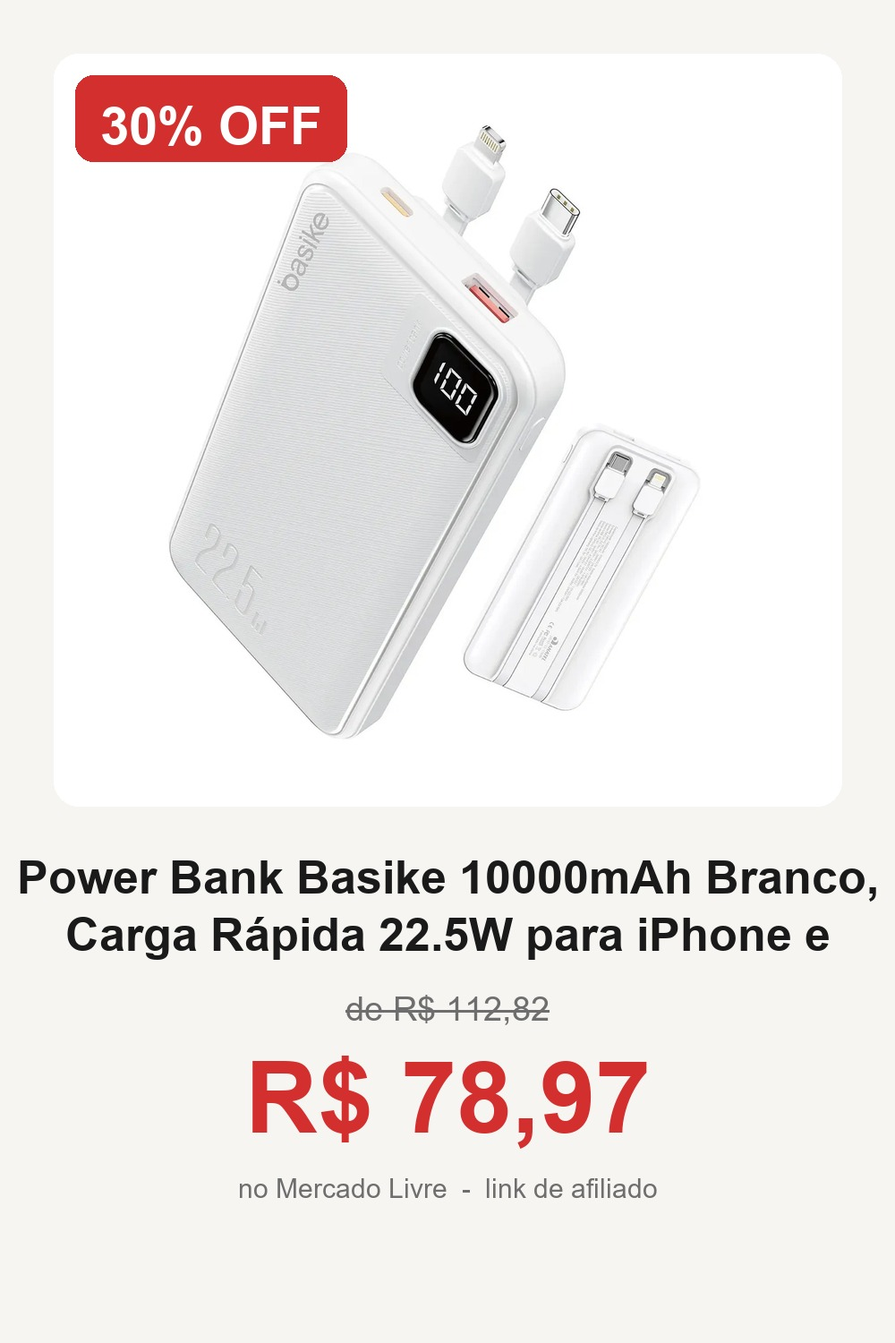
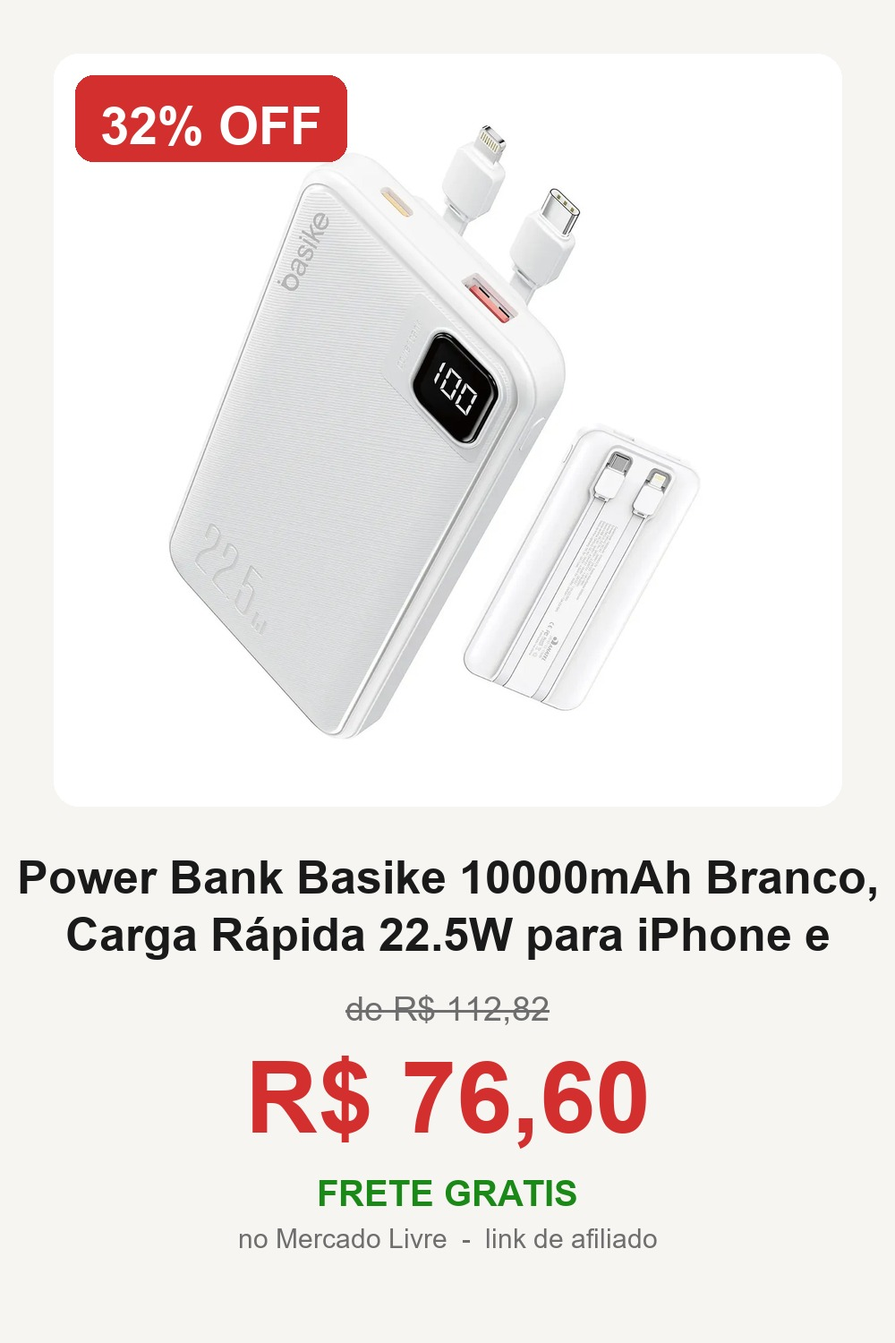
ofertas de 02/09/2026 09:50

Changed region(s): [[0.31, 0.7973, 0.744, 0.9507], [0.124, 0.092, 0.186, 0.1227]]

diff --git a/index.html b/index.html
@@ -52,118 +52,110 @@ footer{text-align:center;color:var(--sub);font-size:13px;padding:32px 20px 56px;
 <p class="aviso">Os links sao de afiliado: voce paga o mesmo preco e eu recebo uma comissao.</p>
 
 <main>
-  <h2>Achados de 01/09/2026</h2>
+  <h2>Achados de 02/09/2026</h2>
   <div class="grade">
-    <a class="item" href="https://www.mercadolivre.com.br/social/eulleriago?matt_word=lootlabpinterest&amp;matt_tool=51242712&amp;forceInApp=true&amp;ref=BMqnOBNMA0SERje5fzGN81BvwZ9m5HuJili7jtFfkcT97LvyqlRd7RjxTP2Gh5XAKsbw%2FGDSkmY%2F%2FaJNbv2mPzH5X4gBh4%2FReSwBP3fnoVQeTwZyQIlms9Y4cNS0vwF%2BMbb5yEgqYj7TjPZfX%2B3FiR5CZiqOOao2AwUclkfVs2vnMe%2B3WOzs28G%2BylTX%2FFPcsSdxhQ%3D%3D" target="_blank" rel="nofollow sponsored noopener">
-      <img src="img/MLB6292634130.jpg" alt="Kit Cobre Leito Colcha Casal 3 Peças Boutis Lisas Dupla Face Porta Travesseiro A" loading="lazy">
+    <a class="item" href="https://www.mercadolivre.com.br/social/eulleriago?matt_word=lootlabpinterest&amp;matt_tool=51242712&amp;forceInApp=true&amp;ref=BKDtHsgtlVsVm5YjahXwwNdTLCNdoHk%2FYGz0mVS77veQ%2BIxzEgAKVHtendtmFe3o4a1ZdVBh58wDEw9vP3hiYuWu%2Fr8UUgN911I742DUuN4Sql%2FzBAq%2Fz5eH7yy29rQKyXG4bOF%2FvHxTA0Jatkl8jEzxPEL74lotQvk%2F9ccjX5x3WuQ2luuBshlINO6b%2Fo92iETcJw%3D%3D" target="_blank" rel="nofollow sponsored noopener">
+      <img src="img/MLB7087431076.jpg" alt="Controle joystick sem fio Sony PlayStation Dualshock 4 Wireless controller alpin" loading="lazy">
+      <div class="txt">
+        <span class="tag">75% OFF</span>
+        <h3>Controle joystick sem fio Sony PlayStation Dualshock 4 Wireless contro</h3>
+        <div><span class="preco">R$ 97,47</span><span class="de">R$ 389,90</span></div>
+      </div>
+    </a>
+    <a class="item" href="https://www.mercadolivre.com.br/social/eulleriago?matt_word=lootlabpinterest&amp;matt_tool=51242712&amp;forceInApp=true&amp;ref=BACSKZQXn2hOHjmvYhBrX37If1z%2B8xQTkpBoqB%2FoN6QXRhgisPsqubkbzEpL54iZ4ZYyKjXKLld7omt%2F6Qf83wjeE2x4PYM5mzBTHmCDUAbQA%2FIjGf%2Bru3rdwmSTqAdkjT0oiIzl4DX94kz3G6d3wEA3Zn2PChVCllH6%2BemLz8m6xnXMdiv5aeDJO9kL%2FhJ%2BuX1xEA%3D%3D" target="_blank" rel="nofollow sponsored noopener">
+      <img src="img/MLB6288675738.jpg" alt="Kit Cobre Leito Colcha Casal 3 Peças Boutis Lisas Dupla Face Porta Travesseiro A" loading="lazy">
       <div class="txt">
         <span class="tag">59% OFF</span>
         <h3>Kit Cobre Leito Colcha Casal 3 Peças Boutis Lisas Dupla Face Porta Tra</h3>
         <div><span class="preco">R$ 76,62</span><span class="de">R$ 187,90</span></div>
       </div>
     </a>
-    <a class="item" href="https://www.mercadolivre.com.br/social/eulleriago?matt_word=lootlabpinterest&amp;matt_tool=51242712&amp;forceInApp=true&amp;ref=BC15n9tQVMiHbe9EyxT%2BnjUNzMRlmZoKeVUO9v%2BzMpYc%2BX9R0kRI1Vk6OCRZdZNBg0Iv0%2Fez6INyaEtamJPwoLsDknSbOC0fDlyOY2KPpVsH%2Bn9dFqJ7%2FlesQZEqZIL80PbQ1QsCT3mEt7vbapynS01zGrlhIymNdiSkqDVOCJoKciGztCHnRS1MMTzEjAtd6%2F5%2B3A%3D%3D" target="_blank" rel="nofollow sponsored noopener">
-      <img src="img/MLB5410852112.jpg" alt="Fone De Ouvido Soundcore by Anker P20i Graves Poderosos e Impactantes Bluetooth " loading="lazy">
+    <a class="item" href="https://www.mercadolivre.com.br/social/eulleriago?matt_word=lootlabpinterest&amp;matt_tool=51242712&amp;forceInApp=true&amp;ref=BPnYxu7sb2Zx2pVYL78tdSvM%2Bzc4cNU1Y6%2FDuqVm9zLvKtoGQF1hnCUi%2F%2FMG%2BaxC3eKgsbIBIRt%2Bd%2BgQP691968nG4vjZNj%2BigH4qiY%2Bw9hGXtMZ7V0cZDlMDED%2BHmhNB7OP6CodIVLVra6YORFqYU0uGmMNipZvdh8IZ%2B81m5PQbXIp47BSi%2FQcoRbBhiGZvR5wgA%3D%3D" target="_blank" rel="nofollow sponsored noopener">
+      <img src="img/MLB5111786668.jpg" alt="Suporte De Mesa Para Tv/monitor De 17 Até 30 Preto Nb F80" loading="lazy">
       <div class="txt">
-        <span class="tag">48% OFF</span>
-        <h3>Fone De Ouvido Soundcore by Anker P20i Graves Poderosos e Impactantes </h3>
-        <div><span class="preco">R$ 155,97</span><span class="de">R$ 299,00</span></div>
+        <span class="tag">56% OFF</span>
+        <h3>Suporte De Mesa Para Tv/monitor De 17 Até 30 Preto Nb F80</h3>
+        <div><span class="preco">R$ 111,05</span><span class="de">R$ 250,90</span></div>
       </div>
     </a>
-    <a class="item" href="https://www.mercadolivre.com.br/social/eulleriago?matt_word=lootlabpinterest&amp;matt_tool=51242712&amp;forceInApp=true&amp;ref=BDBIJLtTlieuoboZDqFX9hDcmdZEEGZkc51Pg9XwdyC6boHxHciGUUlyuXE2YCtGV2vtmHc8r8epJo7Mf4tGBb%2BUeoqiKLI7NKWusZ48NIrxrdKP5BcjOv9gbRer5yUPA6QUIX34o8yddpSR7HKECuDGRL8FCrW4ACvgzdLbVj0w%2BEokPFXjt7O21ex9rLZ5Sn%2FqWw%3D%3D" target="_blank" rel="nofollow sponsored noopener">
-      <img src="img/MLB2184338242.jpg" alt="Secador de cabelo TaiffClássica Style azul" loading="lazy">
+    <a class="item" href="https://www.mercadolivre.com.br/social/eulleriago?matt_word=lootlabpinterest&amp;matt_tool=51242712&amp;forceInApp=true&amp;ref=BEArtbKuZL3J6hjBmAwVAuZJEBqH7wWWtzSGQtGY6%2F2YeN%2FJCrIqGBb8HUMU%2B1bETIHdHlptwRLpbTp4pFU9GFtnRYLhfGc08XcJmAXNOmmTIluM68G3kMfmW2KfB5Z3qYnQytyuAbyQmzkzxL4TrloLggXOBiWmb%2BK3eUy1LFT932n2HllaLFLE2JQPq9DmKGnnWQ%3D%3D" target="_blank" rel="nofollow sponsored noopener">
+      <img src="img/MLB4207618703.jpg" alt="Filamento 3d Petg 1,75mm 1kg Cor Laranja Masterprint Laranja" loading="lazy">
       <div class="txt">
-        <span class="tag">44% OFF</span>
-        <h3>Secador de cabelo TaiffClássica Style azul</h3>
-        <div><span class="preco">R$ 222,05</span><span class="de">R$ 394,71</span></div>
+        <span class="tag">49% OFF</span>
+        <h3>Filamento 3d Petg 1,75mm 1kg Cor Laranja Masterprint Laranja</h3>
+        <div><span class="preco">R$ 75,50</span><span class="de">R$ 147,01</span></div>
       </div>
     </a>
-    <a class="item" href="https://www.mercadolivre.com.br/social/eulleriago?matt_word=lootlabpinterest&amp;matt_tool=51242712&amp;forceInApp=true&amp;ref=BGFjsx%2BL2z37n81MMY8IdlVOiFXQHfEPmKG8FRQAgYp8NmSMEkeMiuLawrswRys9jihF1ZhdlKhlxPifU7LuSHoG6N7qOwhzX%2BJ3YkyypTFJbPa%2FHAzGAHVkCCWJ99%2Fr4bOXdLPzeNuq1tbOdLX3kTSHX5amBA4IfEUX6vx25zxRyQm3pHCiP9Qzf1zwGJp74w5Uqw%3D%3D" target="_blank" rel="nofollow sponsored noopener">
-      <img src="img/MLB7535818070.jpg" alt="Mala de Bordo Rígida ABS Preto Sweet Studio com Rodas Duplas 360° para Viagem" loading="lazy">
-      <div class="txt">
-        <span class="tag">43% OFF</span>
-        <h3>Mala de Bordo Rígida ABS Preto Sweet Studio com Rodas Duplas 360° para</h3>
-        <div><span class="preco">R$ 198,44</span><span class="de">R$ 347,99</span></div>
-      </div>
-    </a>
-    <a class="item" href="https://www.mercadolivre.com.br/social/eulleriago?matt_word=lootlabpinterest&amp;matt_tool=51242712&amp;forceInApp=true&amp;ref=BD0C%2BEmtIaJlKbM4ySmy7wypi3R801ORQW2R2%2BM6zikcUB5YIOH%2BXXdd2s%2BVX642H%2FRmm%2FAxkeuasA%2F2TB3pSE9571Y9ekjChZxLCtWbjc8VrVOLbqHh%2FP61gDFQ%2FtcPEWSvR6xPgKyMjZMGnTblr7GKIzoEAZJuxWBoufaHDI%2F9d%2FPQet7kDsCYY6RTkLovo%2BXHXQ%3D%3D" target="_blank" rel="nofollow sponsored noopener">
-      <img src="img/MLB7326391242.jpg" alt="Controle Sony Dualsense Sem Fio White Ps5" loading="lazy">
-      <div class="txt">
-        <span class="tag">42% OFF</span>
-        <h3>Controle Sony Dualsense Sem Fio White Ps5</h3>
-        <div><span class="preco">R$ 406,00</span><span class="de">R$ 699,00</span></div>
-      </div>
-    </a>
-    <a class="item" href="https://www.mercadolivre.com.br/social/eulleriago?matt_word=lootlabpinterest&amp;matt_tool=51242712&amp;forceInApp=true&amp;ref=BDZ07GnQHmJrGn3HGqT3F%2BJTVNZmO2%2FotoSb0mBnNjhme21oKTA4V8GfMVRgkeD%2Fn2QKyYYIRYS3GpYwBu7vl%2FxCkeh54CtFydt0t58WGcyzQ0NA5SDbGckmptQ6wJzRD5QKbCn12qy%2FPvWcUbahNU0OO7DR01uNr0dMuxTsBf0iwT9XQ8liqlQyGDJ5i6wtu6jIZg%3D%3D" target="_blank" rel="nofollow sponsored noopener">
-      <img src="img/MLB3686609545.jpg" alt="Jogo Talheres Faqueiro Búzios Aço Inox 24 Peças Tramontina" loading="lazy">
-      <div class="txt">
-        <span class="tag">42% OFF</span>
-        <h3>Jogo Talheres Faqueiro Búzios Aço Inox 24 Peças Tramontina</h3>
-        <div><span class="preco">R$ 62,81</span><span class="de">R$ 108,99</span></div>
-      </div>
-    </a>
-    <a class="item" href="https://www.mercadolivre.com.br/social/eulleriago?matt_word=lootlabpinterest&amp;matt_tool=51242712&amp;forceInApp=true&amp;ref=BHKz%2BEJuxLGT%2BZbAXjje%2F7VO5MvFpwL9XcbIzQbvBnQ%2BaCn6NR%2Fj08w3n9wXwZp3LyzcMj0O8KLEEXHCy2C4bJ7sRbmD6%2FXx9YxCgejPzbpa9mxZHY5%2BUvOTfHi1aSx3Ww1EEVzebYV9yVq7TV4aKpYG%2FO4GZdRh4vm%2BCH6w%2BjslOjCLfw9UzqHhgtWFeNoifG9puw%3D%3D" target="_blank" rel="nofollow sponsored noopener">
-      <img src="img/MLB6538432578.jpg" alt="Fone Ouvido Bluetooth Compatível Com Iphone X Xr 11 12 13 14 15 16 17 Xs Pro Max" loading="lazy">
+    <a class="item" href="https://www.mercadolivre.com.br/social/eulleriago?matt_word=lootlabpinterest&amp;matt_tool=51242712&amp;forceInApp=true&amp;ref=BNW8%2FKuYXHbimDSS5kc8%2BdMj%2BrgvGOWlL9eIMPlBJaQQBQD3mZG%2BMXSLwZEu%2FYqXxZXSfuYeGF3hb3R64yzUOVwW%2B131x219ZAJEoVYxwKVHqDM0lasaTsvB4hNO2I7v6N%2FlstHzuqBcPByw6tv9xabFn57PhMLU%2Fee4TZfIde6RoTkMcQO3GJFDBFU1Swv4JLEsQQ%3D%3D" target="_blank" rel="nofollow sponsored noopener">
+      <img src="img/MLB6759050896.jpg" alt="Controle Gamesir T4 Nova Lite sem Fio para Pc Switch Android Ios Steam Celular H" loading="lazy">
       <div class="txt">
         <span class="tag">40% OFF</span>
-        <h3>Fone Ouvido Bluetooth Compatível Com Iphone X Xr 11 12 13 14 15 16 17 </h3>
-        <div><span class="preco">R$ 47,34</span><span class="de">R$ 78,90</span></div>
+        <h3>Controle Gamesir T4 Nova Lite sem Fio para Pc Switch Android Ios Steam</h3>
+        <div><span class="preco">R$ 179,99</span><span class="de">R$ 299,00</span></div>
       </div>
     </a>
-    <a class="item" href="https://www.mercadolivre.com.br/social/eulleriago?matt_word=lootlabpinterest&amp;matt_tool=51242712&amp;forceInApp=true&amp;ref=BNkw0fNCKGFm846VBgq%2BR1MToK39TOKaq3htvEag7%2FBh8w8gWpmsJ%2FcgQuWDee7W7GBa9Rztb8zFt11MCmYVsTica1zzSvJ6XlID1lERWAXEiapC6Qtz3StLfOQGuNLehjayfyCZDqDhRw5813ku789z9eML9DwWvO9EnIDwV8a6HJW7VSdMq9WrnJeUdxBQIrmy2g%3D%3D" target="_blank" rel="nofollow sponsored noopener">
-      <img src="img/MLB2208458035.jpg" alt="Espremedor Turbo Citrus, Mondial, 25W - E-01" loading="lazy">
+    <a class="item" href="https://www.mercadolivre.com.br/social/eulleriago?matt_word=lootlabpinterest&amp;matt_tool=51242712&amp;forceInApp=true&amp;ref=BOnsPCrYYUsEZuyen%2F6LwzgMtruuQczhOAc2DAoGrRHNTwQBmjpcmNxXsudOhXyUNZE9Qd7DP8%2BX5C9CLkD7iSiL4RxNxjdpJp%2BKhWklKZwclNfEb4LkR3JgQnlOuhAyOqLylD4GmFtlbm%2FMYlV9%2F8TPNEI5Aw9omkvcBLR6G8f7aUph6hpQCICYOM2Miv1vRWzxkA%3D%3D" target="_blank" rel="nofollow sponsored noopener">
+      <img src="img/MLB4950691791.jpg" alt="Hollyland Lark M2 Microfone Lapela Sem Fio Compatível Com Android Mini Combo" loading="lazy">
+      <div class="txt">
+        <span class="tag">39% OFF</span>
+        <h3>Hollyland Lark M2 Microfone Lapela Sem Fio Compatível Com Android Mini</h3>
+        <div><span class="preco">R$ 762,50</span><span class="de">R$ 1.250,00</span></div>
+      </div>
+    </a>
+    <a class="item" href="https://www.mercadolivre.com.br/social/eulleriago?matt_word=lootlabpinterest&amp;matt_tool=51242712&amp;forceInApp=true&amp;ref=BIz9M9ucITsBFQTuauU%2FKlzCNEACvzKwzgTRpJz5jRseD5FJE%2FGFR2gOfFjDFqh30At%2BIYnAxagqERhCojH419QUxgXznKKvDJQAIDuwzup9swUeKRYZTEyYqBNZbxJBryKlmw2PPlEyK4cf8n6wVT41mKm%2BEkJwf0YfKi9qf%2FbCOA7umQFab%2FX6PX9vfv5YZ2JQyA%3D%3D" target="_blank" rel="nofollow sponsored noopener">
+      <img src="img/MLB7331440278.jpg" alt="Protetor De Colchão Impermeável Solteiro Matelado Resistente A Líquidos Antiácar" loading="lazy">
       <div class="txt">
         <span class="tag">38% OFF</span>
-        <h3>Espremedor Turbo Citrus, Mondial, 25W - E-01</h3>
-        <div><span class="preco">R$ 61,51</span><span class="de">R$ 99,90</span></div>
+        <h3>Protetor De Colchão Impermeável Solteiro Matelado Resistente A Líquido</h3>
+        <div><span class="preco">R$ 43,55</span><span class="de">R$ 69,98</span></div>
       </div>
     </a>
-    <a class="item" href="https://www.mercadolivre.com.br/social/eulleriago?matt_word=lootlabpinterest&amp;matt_tool=51242712&amp;forceInApp=true&amp;ref=BGJlbP04J%2FXcO9ZNOBJPMEXsFKhmVLvZPB5V5HMCvyPoHj2qLOeHZE%2B7aOaxOughggVHKIlZ5JaWkMibT2hXD626a298FBhTXQCgmbdAKhdutVGpenGP2FVLFOajNHHj3rwSu5hpVWWCTWG9Ht9iR5%2F2RvqVc7E6fFDEGA6L0mEOf77HQdHH7X8naoGDbHJzOm3wGw%3D%3D" target="_blank" rel="nofollow sponsored noopener">
-      <img src="img/MLB6732515480.jpg" alt="Kit 25 Sacos Para Armazenar e Congelar Leite Materno Buba 200ml" loading="lazy">
-      <div class="txt">
-        <span class="tag">38% OFF</span>
-        <h3>Kit 25 Sacos Para Armazenar e Congelar Leite Materno Buba 200ml</h3>
-        <div><span class="preco">R$ 31,18</span><span class="de">R$ 49,90</span></div>
-      </div>
-    </a>
-    <a class="item" href="https://www.mercadolivre.com.br/social/eulleriago?matt_word=lootlabpinterest&amp;matt_tool=51242712&amp;forceInApp=true&amp;ref=BCD3b64hHXAD63vZn8uPBx4ygEKKRtHn7rgdecAhOvO9WOsTsP3Pa0AztC2yBDWKG5L2Q%2BqXIp%2BuAvfDWgGN%2FXU6X1wLzi3aNsi%2FTUgTMfzvzymZQgnaOd0E6cOLKV6IfJR7%2FABC8VwLx4UCVp8PmqufySYXvxcb9%2FihgW4%2BO%2BvSHpOfM%2Fxhz3kMRyLLz6037HA8UQ%3D%3D" target="_blank" rel="nofollow sponsored noopener">
-      <img src="img/MLB6075542836.jpg" alt="Controle Gamesir G7 Se Com Fio Para Xbox One Series S X Pc Hall Effect Botões Me" loading="lazy">
-      <div class="txt">
-        <span class="tag">37% OFF</span>
-        <h3>Controle Gamesir G7 Se Com Fio Para Xbox One Series S X Pc Hall Effect</h3>
-        <div><span class="preco">R$ 228,51</span><span class="de">R$ 364,65</span></div>
-      </div>
-    </a>
-    <a class="item" href="https://www.mercadolivre.com.br/social/eulleriago?matt_word=lootlabpinterest&amp;matt_tool=51242712&amp;forceInApp=true&amp;ref=BBoBNtQrvVyC%2BGxJnqjmd9BNF5TQZKbNhEPUuEjQnv7tTG%2Ft55KCmb%2BWByR16666e1TxOnawXoIT7%2BlenMtP5CwWM3bLGMNfWuphBkHLS3cqKEGkWvh%2FOYxnMWENm3IFCE8UBcprHsUiOdfl0SiBtU1hF7krFI%2Bvil%2FfKy0OyJXZfZgvxhBQMKS9qMaxbNx5ikC4bg%3D%3D" target="_blank" rel="nofollow sponsored noopener">
-      <img src="img/MLB6187617910.jpg" alt="“Chinelo Havaianas Top Unissex Adulto”." loading="lazy">
-      <div class="txt">
-        <span class="tag">36% OFF</span>
-        <h3>“Chinelo Havaianas Top Unissex Adulto”.</h3>
-        <div><span class="preco">R$ 31,99</span><span class="de">R$ 49,98</span></div>
-      </div>
-    </a>
-    <a class="item" href="https://www.mercadolivre.com.br/social/eulleriago?matt_word=lootlabpinterest&amp;matt_tool=51242712&amp;forceInApp=true&amp;ref=BH3rIKIKtK8%2BeHTjRpuNd0duD7akj6URM6pTG3IkRIaTVQXT2iGJX%2FjbIw8wbDKV0JuH101NzQq%2BvILd05OEyjZmgwKJSMX%2Bjf%2FbBCJY%2BT%2BjiGui6vDrZ5dKxZ%2F8tpQpiPEuEGEw%2BN%2B5pspjaRg2emnE1sH%2BpJqNAfCK6GWLksqaORBfULHdmYCI6YMfJu4AaVb0iQ%3D%3D" target="_blank" rel="nofollow sponsored noopener">
-      <img src="img/MLB4367472233.jpg" alt="Smart Tv 32 Philco P32vik Roku Led Dolby Audio Hdr Wi-fi 110/220v" loading="lazy">
+    <a class="item" href="https://www.mercadolivre.com.br/social/eulleriago?matt_word=lootlabpinterest&amp;matt_tool=51242712&amp;forceInApp=true&amp;ref=BMhkr1wfFbtGWDPWVlpXeEUcfUqQkvVS0dKKTSt3ts7UKIEZMJtYpj74ml9xc47WdmAKiQMl776Cwbo3PovCXNgWJwMboQ0b%2Fkwv24oD5b%2BUZ3odAuoRmXLWfV9aQhje1EnGgk%2BGOUBDgMHpgLn%2B7c2sexLtoKKRnk3g%2BAnWSc9TVVrlTwthSNZPK5dS1UYTLpmqqQ%3D%3D" target="_blank" rel="nofollow sponsored noopener">
+      <img src="img/MLB3811504878.jpg" alt="Papel Higiênico Neve Supreme Folha Tripla Leve 32 Pague 28" loading="lazy">
       <div class="txt">
         <span class="tag">35% OFF</span>
-        <h3>Smart Tv 32 Philco P32vik Roku Led Dolby Audio Hdr Wi-fi 110/220v</h3>
-        <div><span class="preco">R$ 977,17</span><span class="de">R$ 1.499,00</span></div>
+        <h3>Papel Higiênico Neve Supreme Folha Tripla Leve 32 Pague 28</h3>
+        <div><span class="preco">R$ 60,12</span><span class="de">R$ 92,30</span></div>
       </div>
     </a>
-    <a class="item" href="https://www.mercadolivre.com.br/social/eulleriago?matt_word=lootlabpinterest&amp;matt_tool=51242712&amp;forceInApp=true&amp;ref=BHgpS6QNiWHTg5%2FMglMEw2xf5cEZMP2XNQUEC%2BkkTvJq1Hp3GXyBAPufLQMute1%2BEJZwc1AUe7%2FjZMvHmU1UOvcBvt0mu7OZbZKMalynCIVaa%2BxBfkojcgCrcIiaMtECPgV0BvfVXriE0UFiN8M2wlFjDakuyENmCuAhailYQYzVteUjX8RsMqBKvmFvgpj1w4eFRA%3D%3D" target="_blank" rel="nofollow sponsored noopener">
-      <img src="img/MLB6848617440.jpg" alt="Bicicleta De Equilíbrio 4 Rodas Buba Retro Sem Pedal Cinza" loading="lazy">
+    <a class="item" href="https://www.mercadolivre.com.br/social/eulleriago?matt_word=lootlabpinterest&amp;matt_tool=51242712&amp;forceInApp=true&amp;ref=BB9idWetZSpgyhDmMG5HUZIB8MISOkLnq720r%2BVNwJhTDqr7Iwu4E9RY0bnP5ouhLys1o5HnuMMTVxoTLa8tM2pfFCq6D8uObkt0kAyiV321zAjrJ%2BCVHMY%2FKbGeT0A67p6PaKZeI1JRk8OZyEdrF9JpsdPF12VyEy6Nv5qQAnUB42IsQ97HoxLOdL7SJJ%2Fdu85H3Q%3D%3D" target="_blank" rel="nofollow sponsored noopener">
+      <img src="img/MLB2089615228.jpg" alt="Omo lava roupas líquido profissional Perfect White 7L" loading="lazy">
       <div class="txt">
         <span class="tag">34% OFF</span>
-        <h3>Bicicleta De Equilíbrio 4 Rodas Buba Retro Sem Pedal Cinza</h3>
-        <div><span class="preco">R$ 214,57</span><span class="de">R$ 323,90</span></div>
+        <h3>Omo lava roupas líquido profissional Perfect White 7L</h3>
+        <div><span class="preco">R$ 85,99</span><span class="de">R$ 129,79</span></div>
       </div>
     </a>
-    <a class="item" href="https://www.mercadolivre.com.br/social/eulleriago?matt_word=lootlabpinterest&amp;matt_tool=51242712&amp;forceInApp=true&amp;ref=BHHfKj1OHfVcw0uv7ClnjdF5F6fb%2FQqVC20bsLk%2BOJeGLN%2FHGKBKL68PQSuWSDYedor4fk7xAmZkwI2EE9%2BxzrAD%2B2cSPDjHXpdlh%2BSbpNH%2Ft57Ht0GGN4ywhvG2eTbn2FJYQqBnkvfwiYpIqRvI6PBahwzCIzIrigixXlU2isRtOshz6oG3tEByPQNBqv0d%2FJ6GoA%3D%3D" target="_blank" rel="nofollow sponsored noopener">
-      <img src="img/MLB4220936691.jpg" alt="Chinelo Feminino Slim Havaianas Liso" loading="lazy">
+    <a class="item" href="https://www.mercadolivre.com.br/social/eulleriago?matt_word=lootlabpinterest&amp;matt_tool=51242712&amp;forceInApp=true&amp;ref=BJfczFNq4DR8P7n%2BZ%2FSaMvLdxKRZ4kvVdmlg72q0N2RHG4p6uf7TTSGy4kvPuRMtqHzqHCO0S63JSpPhnq0xNr4mZqGE5qqxAGEbEg3Rzmz3%2BLJz%2BUW1Eh3o5N4vEtpcqpZk%2FM%2Bs0pe5x%2FOrlLCDQ1zTfkgHfs1almOgPeFM7w8geOWiE2FU2vbWFc01hyZzuZRGJQ%3D%3D" target="_blank" rel="nofollow sponsored noopener">
+      <img src="img/MLB4755857128.jpg" alt="Shampoo Anticaspa Cabelos Normais a Oleosos, Dercos DS Vichy, 300g" loading="lazy">
       <div class="txt">
-        <span class="tag">34% OFF</span>
-        <h3>Chinelo Feminino Slim Havaianas Liso</h3>
-        <div><span class="preco">R$ 52,26</span><span class="de">R$ 78,90</span></div>
+        <span class="tag">33% OFF</span>
+        <h3>Shampoo Anticaspa Cabelos Normais a Oleosos, Dercos DS Vichy, 300g</h3>
+        <div><span class="preco">R$ 95,99</span><span class="de">R$ 143,90</span></div>
+      </div>
+    </a>
+    <a class="item" href="https://www.mercadolivre.com.br/social/eulleriago?matt_word=lootlabpinterest&amp;matt_tool=51242712&amp;forceInApp=true&amp;ref=BOvrgU7wtZ0UYr5Q2Wu4Vv9gwEyCaIjRiGVlvToPirQODj2vbfKjBDzR%2FdZ%2FvfhUMNg2uqgEhGdUr03FM%2BxZ92zPlm2ZioEw6Q7vzqMqtr1R2j83%2B8u%2BffidEKSbNPXsxwnbuyZi08%2FNulWbg6MECz%2B4L%2BEYtFz%2BdyYgpMLchRJNB6ZG3bR%2B7NLSM98C20W%2FcwwxfA%3D%3D" target="_blank" rel="nofollow sponsored noopener">
+      <img src="img/MLB3269837602.jpg" alt="Loção Hidratante Corporal Sem Perfume, com Ceramidas Essenciais e Ácido Hialurôn" loading="lazy">
+      <div class="txt">
+        <span class="tag">33% OFF</span>
+        <h3>Loção Hidratante Corporal Sem Perfume, com Ceramidas Essenciais e Ácid</h3>
+        <div><span class="preco">R$ 94,90</span><span class="de">R$ 141,90</span></div>
+      </div>
+    </a>
+    <a class="item" href="https://www.mercadolivre.com.br/social/eulleriago?matt_word=lootlabpinterest&amp;matt_tool=51242712&amp;forceInApp=true&amp;ref=BAcswQyoVJDrpeHc0WUbgVSRikJDqVZcm8QI%2FpLna%2FJBAf0TQK%2B3pxkHPvtsRBWLlYWvMTGnARA7q7bkk%2FPSuWd6IFPu1wce88I0trqamn9nUra0vd3ddHaSLZ6h3wASc60saucDLglIWUGRLah%2B2B%2Fv9%2BydlF4SjQ41mem%2BdyOhywCvUWIjI4q5xaVCxy3q3FvlXQ%3D%3D" target="_blank" rel="nofollow sponsored noopener">
+      <img src="img/MLB2779401126.jpg" alt="Cetaphil Creme Hidratante Corporal para Pele Seca e Sensível 453g - Hidratação p" loading="lazy">
+      <div class="txt">
+        <span class="tag">33% OFF</span>
+        <h3>Cetaphil Creme Hidratante Corporal para Pele Seca e Sensível 453g - Hi</h3>
+        <div><span class="preco">R$ 89,91</span><span class="de">R$ 134,90</span></div>
+      </div>
+    </a>
+    <a class="item" href="https://www.mercadolivre.com.br/social/eulleriago?matt_word=lootlabpinterest&amp;matt_tool=51242712&amp;forceInApp=true&amp;ref=BFXKUM%2FNIHtwe31tTgt3JLvJjY0TRcYLtsR7q%2FP0TWDItzsFAj%2Bp2rFi1y%2BXF%2BuQAgnelGVx5tyhiHJO6HT5lAPiDP%2FZfLvtHVLs1VA2f%2B%2FL0K725wj5Rm9KNvQrGmNcD3ZlbDLkj1WYeuvbOe3njQmX7exkZpzztt3kUBOaMXXC%2FUfnez8jyx69uUi2YQPEj%2F%2Bjag%3D%3D" target="_blank" rel="nofollow sponsored noopener">
+      <img src="img/MLB4555612520.jpg" alt="Huggies Fralda Pants Roupinha Proteção Acolchoada XXG - 58 Un" loading="lazy">
+      <div class="txt">
+        <span class="tag">33% OFF</span>
+        <h3>Huggies Fralda Pants Roupinha Proteção Acolchoada XXG - 58 Un</h3>
+        <div><span class="preco">R$ 76,80</span><span class="de">R$ 114,33</span></div>
       </div>
     </a>
     <a class="item" href="https://www.mercadolivre.com.br/social/eulleriago?matt_word=lootlabpinterest&amp;matt_tool=51242712&amp;forceInApp=true&amp;ref=BHDFzeaRNRBbH4hZY5QYBFpIEX2Xm%2FyTdaFib9P0REdgZT6IimknnFJaeCiSjWQWRbobEBYRf1XqVOO9V4DTvSo8CBJdKaJwhqIlYNDCT4RkaCdYG63eYsrz%2FyHcayBqI0G%2FMpbzU%2FUkLrs1ARjtnpJvlvSf1V7628Rgqw1aab6ygldjfl8SpOY%2F7KE9OeE7zFxhvA%3D%3D" target="_blank" rel="nofollow sponsored noopener">
@@ -174,6 +166,14 @@ footer{text-align:center;color:var(--sub);font-size:13px;padding:32px 20px 56px;
         <div><span class="preco">R$ 76,24</span><span class="de">R$ 113,00</span></div>
       </div>
     </a>
+    <a class="item" href="https://www.mercadolivre.com.br/social/eulleriago?matt_word=lootlabpinterest&amp;matt_tool=51242712&amp;forceInApp=true&amp;ref=BM%2FbAXLEcCy057ySsKaeeV9MAahvLRH%2FfjKv8KntLOUj%2Banc4ZmjYUQnaQnF%2BicvwGPJg2Vh20zxji3NVJMI5NcqA6mlYPhDc9fvOXSI%2FiXdIBCqbzmCP%2BhlVK2s07UzJKoA59RikBTjWKTYkj6Mh2vngD4UkvA7MxtGdNfp4UfqNQvpInb2p3THyNYA9iML2b0sDg%3D%3D" target="_blank" rel="nofollow sponsored noopener">
+      <img src="img/MLB7444334052.jpg" alt="Power Bank Basike 10000mAh Branco, Carga Rápida 22.5W para iPhone e Samsung, Com" loading="lazy">
+      <div class="txt">
+        <span class="tag">32% OFF</span>
+        <h3>Power Bank Basike 10000mAh Branco, Carga Rápida 22.5W para iPhone e Sa</h3>
+        <div><span class="preco">R$ 76,60</span><span class="de">R$ 112,82</span></div>
+      </div>
+    </a>
     <a class="item" href="https://www.mercadolivre.com.br/social/eulleriago?matt_word=lootlabpinterest&amp;matt_tool=51242712&amp;forceInApp=true&amp;ref=BKguifquzn5XFRUdJ%2BlnuEHOj15rkMIYEQt%2F6k2jzTvsABgAtnZ6P9UL9HfjxlsIe3sKdtWzO3shmfeN0moDJKBd9%2FBA%2BHxJegEIcorM%2F8VXXoyaGLovbte2R%2FK43ckH7awLUwByJAb3%2BUsISBr5bu%2Bi0YW7Cfg3sPAqLKPTJ1ii%2B2Wo6ygiH8P9O10uwuKwh2Ly7Q%3D%3D" target="_blank" rel="nofollow sponsored noopener">
       <img src="img/MLB6255461148.jpg" alt="Tênis Flyer Runner Mesh Bdp Puma" loading="lazy">
       <div class="txt">
@@ -182,36 +182,20 @@ footer{text-align:center;color:var(--sub);font-size:13px;padding:32px 20px 56px;
         <div><span class="preco">R$ 239,99</span><span class="de">R$ 349,99</span></div>
       </div>
     </a>
-    <a class="item" href="https://www.mercadolivre.com.br/social/eulleriago?matt_word=lootlabpinterest&amp;matt_tool=51242712&amp;forceInApp=true&amp;ref=BHGNBrJyN%2FcfYyB0W4iHZrcvDWw9S4sULqjVCuwSylXOZhMpVaROr5FnFK%2B%2FhpeO5f7mvl0agMKlzQMeF5HypsCm7XiMzDTpS6jSYFmZ53YhkUfRx3feYBOphkuitlPqFrpuGClZcbyazw3FvBrHnUTyi6Qm7CJUr5oHdtj%2ByT5foC2O6DrbhpxLkewYQlalo8Ca1Q%3D%3D" target="_blank" rel="nofollow sponsored noopener">
-      <img src="img/MLB6255077002.jpg" alt="Tênis Flyer Runner Mesh Feminino Puma" loading="lazy">
+    <a class="item" href="https://www.mercadolivre.com.br/social/eulleriago?matt_word=lootlabpinterest&amp;matt_tool=51242712&amp;forceInApp=true&amp;ref=BMAqfrcAsCBME6WKVoG1duSzHU3EKKMNu3ATVGyyTiXGpJ5D%2BwGeKz4TfbZcHC4ffmWeeOhDraYGSk%2BCTfHhd4lflpi65rLMhSQvXjx9mbtBB1z4gCVqJ9gkw0LI7R%2BnOW6%2BswFRItlNE%2BEpTBJfzRuQx7w9Qo2xTRHg2JFG2iRdnFy8nQL0II4XH3cyqq8oZz5qtg%3D%3D" target="_blank" rel="nofollow sponsored noopener">
+      <img src="img/MLB6255788480.jpg" alt="Tênis Flyer Runner Mesh Feminino Puma" loading="lazy">
       <div class="txt">
         <span class="tag">31% OFF</span>
         <h3>Tênis Flyer Runner Mesh Feminino Puma</h3>
         <div><span class="preco">R$ 239,99</span><span class="de">R$ 349,99</span></div>
       </div>
     </a>
-    <a class="item" href="https://www.mercadolivre.com.br/social/eulleriago?matt_word=lootlabpinterest&amp;matt_tool=51242712&amp;forceInApp=true&amp;ref=BP2AJm%2BWtR5fUQFIFhCEKBu20rLqyXLwLSP8oPd0J%2BhwthZ0R4pmxeUNLDQcEr71XYcaLWgbx99mX8QrfXA30fro%2FpG77ElWoFaZ5yGLUjjwv4P69oAX%2BuT4fcmrJVCssJBSENWyISK9KX5DisBZltzGwYu6WAiselBH%2Bi2ZHyV9DaBCgI%2FGkvl3OIwEMPrFO%2BJ7jw%3D%3D" target="_blank" rel="nofollow sponsored noopener">
-      <img src="img/MLB5271020892.jpg" alt="Protetor Solar Em Bastão Antimanchas FPS 90 Cor 1 15g Sallve" loading="lazy">
+    <a class="item" href="https://www.mercadolivre.com.br/social/eulleriago?matt_word=lootlabpinterest&amp;matt_tool=51242712&amp;forceInApp=true&amp;ref=BJ%2BIqmed3UVWcUjG%2BmK6oGBtM7BDb%2FfabNIVrvFYZjCD0G9rjEQdEXOITil4ZJtY35jpItdWhDzDrOjIm9t0G1IIVIiU5AMvl1TbGg%2Bq6BCm93zdSLx%2FCq%2FN93%2BbAkZzokbcWjZiB3HY%2FfpydRNMnE9PQCn79%2FeIY5TW%2Bygx4ctvNHGjLX0mp92y7hq3vSedOQoiBg%3D%3D" target="_blank" rel="nofollow sponsored noopener">
+      <img src="img/MLB6981249920.jpg" alt="Bicicleta De Equilíbrio Buba 4 Rodas Sem Pedal Infantil Bebê Preto" loading="lazy">
       <div class="txt">
         <span class="tag">31% OFF</span>
-        <h3>Protetor Solar Em Bastão Antimanchas FPS 90 Cor 1 15g Sallve</h3>
-        <div><span class="preco">R$ 54,95</span><span class="de">R$ 79,90</span></div>
-      </div>
-    </a>
-    <a class="item" href="https://www.mercadolivre.com.br/social/eulleriago?matt_word=lootlabpinterest&amp;matt_tool=51242712&amp;forceInApp=true&amp;ref=BIozegGuylMl%2BnIRfAn9Ivdi9PSvtjmjxmnM00IEMPczA2vRRvCkFVDiAoNSZRFcL7%2FRDFRZ3mbsH8rHOfL4JBtXYTBujoeqP7LRMW3%2F%2Fd8M%2F9yiePI5CctxYkBqO%2FBpQ1myOVIsLN2VqtmYkXUyyt6VwPMJ2Sr9%2BUUpCu%2FQ2bZMQTjPxiuaHcFhmHwWAAkzHiA8kA%3D%3D" target="_blank" rel="nofollow sponsored noopener">
-      <img src="img/MLB7347901856.jpg" alt="Kit 2 Cartão De Memória 128gb Câmera Notebook Wifi Ultra Hd" loading="lazy">
-      <div class="txt">
-        <span class="tag">31% OFF</span>
-        <h3>Kit 2 Cartão De Memória 128gb Câmera Notebook Wifi Ultra Hd</h3>
-        <div><span class="preco">R$ 51,65</span><span class="de">R$ 74,98</span></div>
-      </div>
-    </a>
-    <a class="item" href="https://www.mercadolivre.com.br/social/eulleriago?matt_word=lootlabpinterest&amp;matt_tool=51242712&amp;forceInApp=true&amp;ref=BM%2FbAXLEcCy057ySsKaeeV9MAahvLRH%2FfjKv8KntLOUj%2Banc4ZmjYUQnaQnF%2BicvwGPJg2Vh20zxji3NVJMI5NcqA6mlYPhDc9fvOXSI%2FiXdIBCqbzmCP%2BhlVK2s07UzJKoA59RikBTjWKTYkj6Mh2vngD4UkvA7MxtGdNfp4UfqNQvpInb2p3THyNYA9iML2b0sDg%3D%3D" target="_blank" rel="nofollow sponsored noopener">
-      <img src="img/MLB7444334052.jpg" alt="Power Bank Basike 10000mAh Branco, Carga Rápida 22.5W para iPhone e Samsung, Com" loading="lazy">
-      <div class="txt">
-        <span class="tag">30% OFF</span>
-        <h3>Power Bank Basike 10000mAh Branco, Carga Rápida 22.5W para iPhone e Sa</h3>
-        <div><span class="preco">R$ 78,97</span><span class="de">R$ 112,82</span></div>
+        <h3>Bicicleta De Equilíbrio Buba 4 Rodas Sem Pedal Infantil Bebê Preto</h3>
+        <div><span class="preco">R$ 184,90</span><span class="de">R$ 267,01</span></div>
       </div>
     </a>
     <a class="item" href="https://www.mercadolivre.com.br/social/eulleriago?matt_word=lootlabpinterest&amp;matt_tool=51242712&amp;forceInApp=true&amp;ref=BNFswQzlgWKgSOTvI6PSjlNuM4OCMyMSzxP3poZb335usX%2BSIQ2BFCPpfG62h8wKLhsGqvky1tcLAtujmGogs3pqcHsoXaWAtxcEY91jTBr2FO9VobSxeiTlnJVSueopoqD9IaiQi%2FlloUdtm8WjtSYAE5ygcy205OVox0yRqfUhGRl4CPsFNR%2FlmJBd2lcTg0POaQ%3D%3D" target="_blank" rel="nofollow sponsored noopener">
@@ -222,12 +206,12 @@ footer{text-align:center;color:var(--sub);font-size:13px;padding:32px 20px 56px;
         <div><span class="preco">R$ 54,90</span><span class="de">R$ 78,90</span></div>
       </div>
     </a>
-    <a class="item" href="https://www.mercadolivre.com.br/social/eulleriago?matt_word=lootlabpinterest&amp;matt_tool=51242712&amp;forceInApp=true&amp;ref=BMuxf2xc8alFEzbMa3%2FcbmZJRcC0gx8fWL6kVYdZbS9Jghzmp6gOlVLVHEhs8g%2Bc94sPXNXnrMJuem%2BkttEeQv0JDL7hmF4Wgu5ktmwYrJmlXY0LS5%2B4oiqzzMX5iEpv0GTeOr%2FMel05%2B2h4LQ3Pln2NNY4NZT3sMledQbSijgy7C9P75AnCoDQxbDW8u0bHxCk%2FCQ%3D%3D" target="_blank" rel="nofollow sponsored noopener">
-      <img src="img/MLB4729001037.jpg" alt="Cabo De Rede Cat6 20 Metros 20m Lan Internet Crimpado Rj45 Azul Boyu Cell" loading="lazy">
+    <a class="item" href="https://www.mercadolivre.com.br/social/eulleriago?matt_word=lootlabpinterest&amp;matt_tool=51242712&amp;forceInApp=true&amp;ref=BPrUTIeLa9s16qwX1%2Bh5LdQ1INfehWvKtSEyVRmZWWM5kP2s96cE9sEgE%2FDnis8vfmesUg0aJ452pzXN%2BR8v3fGAABMW2DxQ%2FLHuvlYc59HSZri6%2FQ0uTL4HtGh9%2FDW88bqsHTC0Eq0JeOuPe%2BEIYNYWkJ%2B01%2Bbxw%2FLe0kjtOte8F8nw86vEIQGh4WwEBOUh%2FUD5xw%3D%3D" target="_blank" rel="nofollow sponsored noopener">
+      <img src="img/MLB7159824862.jpg" alt="Protetor Solar Facial com Cor FPS 70 Alta Cobertura - L&#x27;Oréal Paris Solar Expert" loading="lazy">
       <div class="txt">
         <span class="tag">30% OFF</span>
-        <h3>Cabo De Rede Cat6 20 Metros 20m Lan Internet Crimpado Rj45 Azul Boyu C</h3>
-        <div><span class="preco">R$ 34,90</span><span class="de">R$ 49,90</span></div>
+        <h3>Protetor Solar Facial com Cor FPS 70 Alta Cobertura - L&#x27;Oréal Paris So</h3>
+        <div><span class="preco">R$ 44,50</span><span class="de">R$ 63,99</span></div>
       </div>
     </a>
     <a class="item" href="https://www.mercadolivre.com.br/social/eulleriago?matt_word=lootlabpinterest&amp;matt_tool=51242712&amp;forceInApp=true&amp;ref=BKpfKOZ51fr6QTg5B6U3zgLgpogzaPicxXCRGpRwUCh6d4Olr0GLZLn1DzlK9OwYtnfOH97ffhmqLgwL9fZeCIj%2BgZBtu96PIn%2BulflBqz8QbuipudTQlRvUWB00Cyovav%2BIwezjU3ZGdgZ%2FwEwjnmn%2FlfcXfRKQFg0LznrmoN92Velhn72aizRcibT830FdIzQrrA%3D%3D" target="_blank" rel="nofollow sponsored noopener">
@@ -238,12 +222,12 @@ footer{text-align:center;color:var(--sub);font-size:13px;padding:32px 20px 56px;
         <div><span class="preco">R$ 164,00</span><span class="de">R$ 230,00</span></div>
       </div>
     </a>
-    <a class="item" href="https://www.mercadolivre.com.br/social/eulleriago?matt_word=lootlabpinterest&amp;matt_tool=51242712&amp;forceInApp=true&amp;ref=BAm900BhEEsHGrDpXDsPL5JFV%2FsqD4QVrKkGJstOoKSwaSE1SDH25ZShquZH2vuZBY4YnzS9ugDMiFhMWtm%2Fft7o2rI4Ez2cLIcMjt3BMuPNUGmwAABSdVJG0%2Fkywq61mg5ikTt8Ira7xg9Ck5spCTYgo7T%2FR%2BNrH%2F3K8V0iRjnxlgxJWuwog%2FRIiaMck%2FuxznIHaA%3D%3D" target="_blank" rel="nofollow sponsored noopener">
-      <img src="img/MLB4329151903.jpg" alt="Chuveiro Ducha Lorenzetti Loren Shower Eletrônico Branco 6800w 220V" loading="lazy">
+    <a class="item" href="https://www.mercadolivre.com.br/social/eulleriago?matt_word=lootlabpinterest&amp;matt_tool=51242712&amp;forceInApp=true&amp;ref=BFSu%2BLm1KT7lHDtUnFr%2FdPpFNYLb0hLMpypBJX1raAFCYAQWkb4DJjBqmSUxj60JhXBh%2Far1zP2KPm7u%2Brmy9HkITAVwd0l63Z%2B9SfISR7F6OLQgkwz51vePzXYc4gO05ESRYLTtSbRrSbkH%2B%2BwbC%2BYgILgzBZ2ADyaabwnjCD8xKFozPycotZsPrHMKzZv8xlF4iw%3D%3D" target="_blank" rel="nofollow sponsored noopener">
+      <img src="img/MLB4276034823.jpg" alt="Aparador De Pelos Super Groom 10 Mondial 6w Bivolt BG-03" loading="lazy">
       <div class="txt">
         <span class="tag">29% OFF</span>
-        <h3>Chuveiro Ducha Lorenzetti Loren Shower Eletrônico Branco 6800w 220V</h3>
-        <div><span class="preco">R$ 128,56</span><span class="de">R$ 180,30</span></div>
+        <h3>Aparador De Pelos Super Groom 10 Mondial 6w Bivolt BG-03</h3>
+        <div><span class="preco">R$ 139,35</span><span class="de">R$ 194,90</span></div>
       </div>
     </a>
     <a class="item" href="https://www.mercadolivre.com.br/social/eulleriago?matt_word=lootlabpinterest&amp;matt_tool=51242712&amp;forceInApp=true&amp;ref=BPIpZqoHiRtXvWrT%2FDPmBe9HgoGyzbH0kmB%2FjWj3JoPqVBYGf3yVAQ85184Urzc0y1yqJgLgLw4hCwlV3OvLisKr5S4LhWZTFJkZm%2BXcS9TDkS3Kzpbu0IRyCVkuwV3nGyZzAHU4cA8hjlStUcMXKE101EG1EMaAhAGKCgzGCK5S2BD4jtPXN8n3qCfd0QgjIKUDhw%3D%3D" target="_blank" rel="nofollow sponsored noopener">
@@ -252,6 +236,14 @@ footer{text-align:center;color:var(--sub);font-size:13px;padding:32px 20px 56px;
         <span class="tag">29% OFF</span>
         <h3>Cortina 2.00 x 1.80 m Blackout Blecaute Preto Corta Luz Em Tecido Gros</h3>
         <div><span class="preco">R$ 55,90</span><span class="de">R$ 78,90</span></div>
+      </div>
+    </a>
+    <a class="item" href="https://www.mercadolivre.com.br/social/eulleriago?matt_word=lootlabpinterest&amp;matt_tool=51242712&amp;forceInApp=true&amp;ref=BGMjb0UVwGdEuKqMxhdPiKfVkcOuGWRpA1cPiD1mCam8vQ95o98bC%2BPjKGm%2BnWo2wD1P6dDrKdm8V0zKgpy5QiRRIJmatUheUzHoyGcxP1l2GCO7ZA5sxlRzaRYo51oDNWOeLZBjLmts6NtHXBpGPgfdl022Jg009gvRapxwAUKgY2HQl1MtJCZW7r3lO0bE7zXt2A%3D%3D" target="_blank" rel="nofollow sponsored noopener">
+      <img src="img/MLB4208265539.jpg" alt="Shampoo Johnson&#x27;s Baby Regular 750ml" loading="lazy">
+      <div class="txt">
+        <span class="tag">29% OFF</span>
+        <h3>Shampoo Johnson&#x27;s Baby Regular 750ml</h3>
+        <div><span class="preco">R$ 51,66</span><span class="de">R$ 72,30</span></div>
       </div>
     </a>
   </div>
